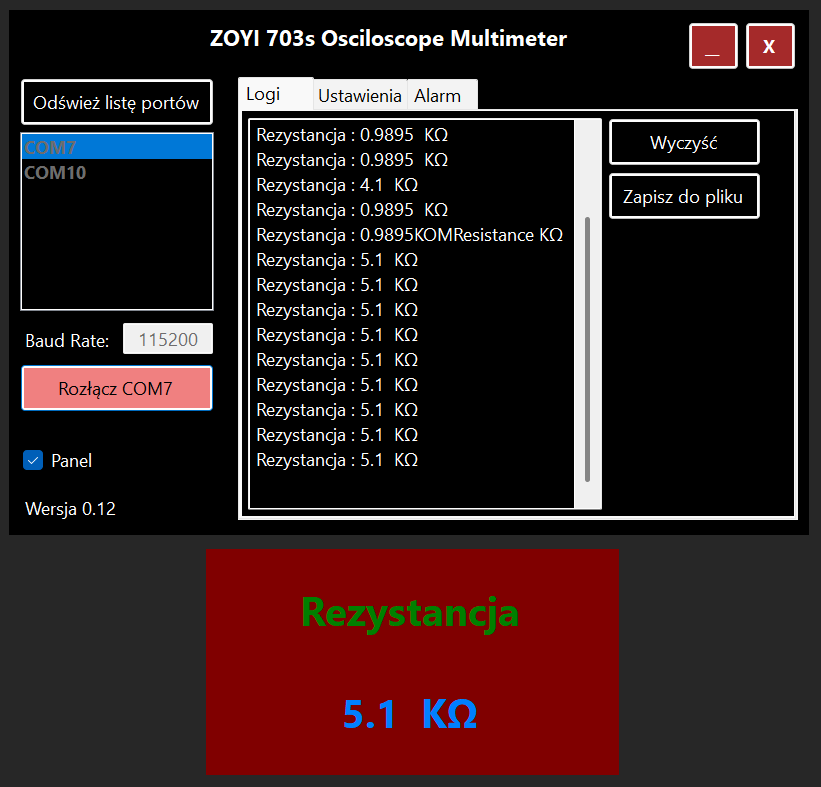
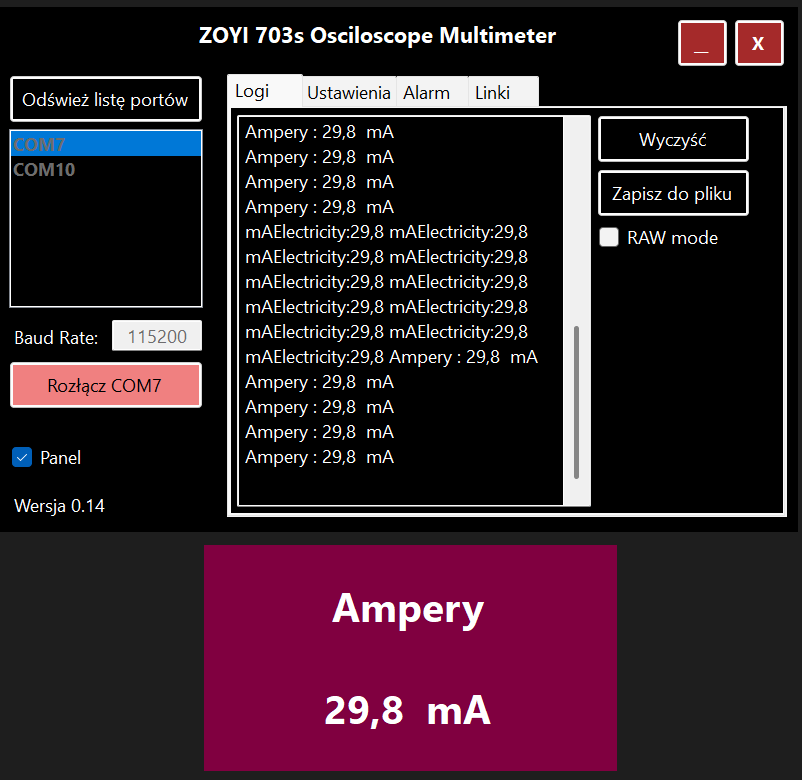
Create Links.txt if not exists

diff --git a/Links.cs b/Links.cs
@@ -9,10 +9,13 @@ namespace ZOYI
 {
     public partial class MainWindow : Form
     {
+        string links_path = "Links.txt";
+
         private void btnLinksEdit_Click(object sender, EventArgs e)
         {
             Process.Start("notepad.exe", "Links.txt");
         }
+
         private void btnLinksRefresh_Click(object sender, EventArgs e)
         {
             refreshLinks();
@@ -20,9 +23,12 @@ namespace ZOYI
 
         private void refreshLinks()
         {
+            if (!File.Exists(links_path))
+                File.Create(links_path).Close();
+
             int xPos = 10;
             int yPos = 10;
-            foreach (string line in File.ReadLines("Links.txt"))
+            foreach (string line in File.ReadLines(links_path))
             {
                 string[] link = line.Split(" ");
 
